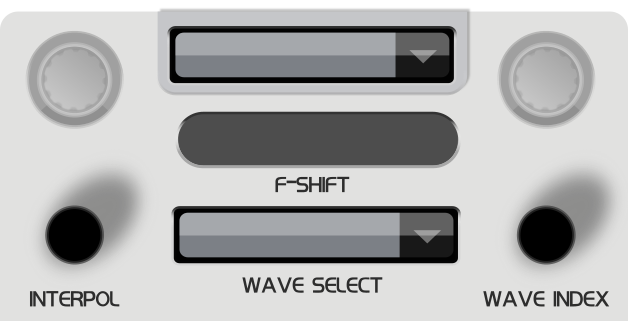
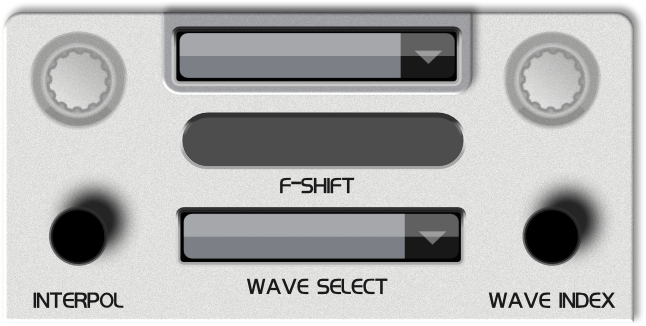
Bump version to 2.2.3, update OsTIrus Trancy skin
- Bump version to 2.2.3 in CMakeLists.txt and version.h
- OsTIrus Trancy skin: visual polishing of oscillator, filter, LFO, FX
  panels, filter routing icons, and new waveform shape buttons
- Add changelog entry for 2.2.3

diff --git a/source/jucePluginLib/version.h b/source/jucePluginLib/version.h
@@ -1,0 +1,4 @@
+#pragma once
+
+static constexpr const char* const g_pluginVersionString = "2.2.3";
+static constexpr uint32_t g_pluginVersion = 10000 * 2 + 100 * 2 + 3;
